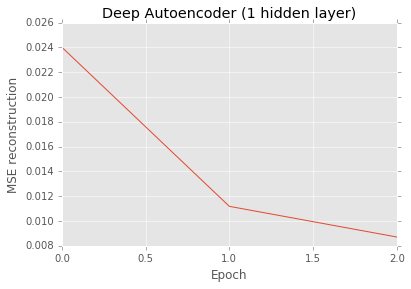
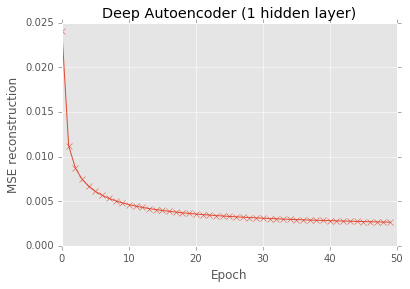
test mse

diff --git a/code/dAE.py b/code/dAE.py
@@ -141,7 +141,7 @@ class dAE(object):
             theano_rng = RandomStreams(numpy_rng.randint(2 ** 30))
 
         # note : W' was written as `W_prime` and b' as `b_prime`
-        if not W:# ---------------------------------------------------------- Random initialization
+        if not W:# ------------------------------------------------------------------------------------ Random initialization
             # W is initialized with `initial_W` which is uniformely sampled
             # from -4*sqrt(6./(n_visible+n_hidden)) and
             # 4*sqrt(6./(n_hidden+n_visible))the output of uniform if
@@ -375,7 +375,14 @@ class dAE_nobias(object):
     def mse(self):
         return T.mean((self.z-self.x)**2)
 
-def test_dAE(learning_rate=0.05, training_epochs=50, dataset='full', batch_size=64, output_folder='models/dae'):
+    def mse_test_recon(self, corruption_level):
+        tilde_x = self.get_corrupted_input(self.x, corruption_level)
+        y = self.get_hidden_values(tilde_x)
+        z = self.get_reconstructed_input(y)
+        return T.mean((z-self.x)**2)
+
+
+def test_dAE(learning_rate=0.05, training_epochs=3, dataset='full', batch_size=64, output_folder='models/dae'):
 
     """
     This demo is tested on MNIST
@@ -443,6 +450,15 @@ def test_dAE(learning_rate=0.05, training_epochs=50, dataset='full', batch_size=
         }
     )
 
+    test_da = theano.function(
+        [index],
+        da.mse_test_recon(corruption_level=0.),
+        givens={
+            x: test_set_x
+        }
+    )
+
+
     start_time = time.clock()
 
     #--------------
@@ -450,6 +466,7 @@ def test_dAE(learning_rate=0.05, training_epochs=50, dataset='full', batch_size=
     #--------------
     # go through training epochs
     mse_log =[]
+    mse_test_log = []
     for epoch in xrange(training_epochs):
         # go through trainng set
         c = []
@@ -458,6 +475,8 @@ def test_dAE(learning_rate=0.05, training_epochs=50, dataset='full', batch_size=
 
         print 'Training epoch %d, cost ' % epoch, numpy.mean(c)
         mse_log.append(numpy.mean(c))
+        mse_test_log.append(numpy.mean(test_da))
+
     end_time = time.clock()
 
     training_time = (end_time - start_time)
@@ -475,14 +494,10 @@ def test_dAE(learning_rate=0.05, training_epochs=50, dataset='full', batch_size=
 
     with open(output_folder+'/dAE_mnist_log.pkl', 'wb') as output:
         pickle.dump(mse_log, output, pickle.HIGHEST_PROTOCOL)
+    with open(output_folder+'/dAE_mnist_test_log.pkl', 'wb') as output:
+        pickle.dump(mse_test_log, output, pickle.HIGHEST_PROTOCOL)
 
-    # plt.figure(figsize=(6,4))
-    # plt.plot(range(len(mse_log)), mse_log)
-    # plt.xlabel('Epoch')
-    # plt.ylabel('MSE reconstruction')
-    # plt.title('Deep Autoencoder (1 hidden layer)')
-    # plt.savefig(output_folder+'/MSE_dae.png')
-    # plt.show()
+
     #-------------------------------------------------
     # BUILDING THE CORRUPTED MODEL W/ BIAS
     #-------------------------------------------------
@@ -548,14 +563,6 @@ def test_dAE(learning_rate=0.05, training_epochs=50, dataset='full', batch_size=
 
     with open(output_folder+'/dAE_mnist_corr30_log.pkl', 'wb') as output:
         pickle.dump(mse_log, output, pickle.HIGHEST_PROTOCOL)
-
-    # plt.figure(figsize=(6,4))
-    # plt.plot(range(len(mse_log)), mse_log)
-    # plt.xlabel('Epoch')
-    # plt.ylabel('MSE reconstruction')
-    # plt.title('Deep Denoising Autoencoder (1 hidden layer)')
-    # plt.savefig(output_folder+'/MSE_dae_corr30.png')
-    # plt.show()
 
 
 
